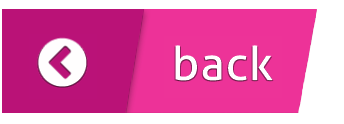
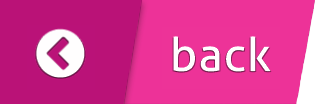
feat: Updated back button

diff --git a/client/src/main/resources/assets/css/landing/LoginModal.css b/client/src/main/resources/assets/css/landing/LoginModal.css
@@ -37,7 +37,7 @@
     -fx-border-color: rgba(255, 255, 255, 0.8);
     -fx-border-width: 2px;
     -fx-padding: 2px 6px;
-    -fx-min-width: 400px;
+    -fx-min-width: 475px;
 }
 
 .login-input:focused {
@@ -51,7 +51,7 @@
     -fx-text-fill: #FFFFFF;
     -fx-background-radius: 2px;
     -fx-cursor: hand;
-    -fx-padding: 4px 6px;
+    -fx-padding: 4px 7px;
     -fx-max-height: 40px;
     -fx-background-color: #109ec5;
     -fx-effect: dropshadow(gaussian, rgba(0, 0, 0, 0.3), 5, 0.0, 0, 2);

diff --git a/client/src/main/resources/assets/css/home/BottomBar.css b/client/src/main/resources/assets/css/home/BottomBar.css
@@ -1,7 +1,7 @@
 .bot-bar {
     -fx-background-color: rgba(0, 0, 0, 0.5);
     -fx-max-height: 100px;
-    -fx-padding: 10;
+    -fx-padding: 10 10 10 0;
 }
 
 .bot-bar .button {

diff --git a/client/src/main/java/beat/osu/beatosu/view/landing/component/LoginModal.java b/client/src/main/java/beat/osu/beatosu/view/landing/component/LoginModal.java
@@ -8,6 +8,7 @@ import beat.osu.beatosu.helper.ScreenManager;
 import beat.osu.beatosu.model.User;
 import javafx.animation.Animation;
 import javafx.animation.Interpolator;
+import javafx.animation.ScaleTransition;
 import javafx.animation.TranslateTransition;
 import javafx.geometry.Insets;
 import javafx.geometry.Pos;
@@ -18,6 +19,8 @@ import javafx.scene.control.Button;
 import javafx.scene.control.Label;
 import javafx.scene.control.PasswordField;
 import javafx.scene.control.TextField;
+import javafx.scene.image.Image;
+import javafx.scene.image.ImageView;
 import javafx.scene.layout.BorderPane;
 import javafx.scene.layout.Region;
 import javafx.scene.layout.StackPane;
@@ -109,9 +112,9 @@ public class LoginModal extends StackPane {
         createAccountButton.getStyleClass().addAll("login-button");
         createAccountButton.setMaxWidth(Double.MAX_VALUE);
 
-        backButton = new Button("〈 back");
-        backButton.getStyleClass().add("back-button");
+        backButton = createBackButton();
         StackPane.setAlignment(backButton, Pos.BOTTOM_LEFT);
+        StackPane.setMargin(backButton, new Insets(0, 0, 12, 0));
 
         formContainer.getChildren().addAll(
                 titleLabel,
@@ -190,7 +193,7 @@ public class LoginModal extends StackPane {
                     onLoginSuccessListener.accept(result.getUser());
                 }
                 hide();
-            }else {
+            } else {
                 System.out.println(result.getMessage());
             }
         });
@@ -255,5 +258,94 @@ public class LoginModal extends StackPane {
     public void clearFields() {
         userInput.clear();
         passInput.clear();
+    }
+
+    private Button createBackButton() {
+        Button button = new Button();
+        try {
+            String normalImagePath = "/assets/buttons/shared/global_back.png";
+            String hoveredImagePath = "/assets/buttons/shared/global_back_hovered.png";
+            
+            URL normalImageUrl = getClass().getResource(normalImagePath);
+            URL hoveredImageUrl = getClass().getResource(hoveredImagePath);
+            
+            if (normalImageUrl == null) {
+                System.err.println("Image not found: " + normalImagePath);
+                button.setText("〈 back");
+            } else {
+                Image normalImage = new Image(normalImageUrl.toExternalForm());
+                
+                ImageView normalImageView = new ImageView(normalImage);
+                normalImageView.setFitHeight(50);
+                normalImageView.setPreserveRatio(true);
+                
+                button.setGraphic(normalImageView);
+                button.getStyleClass().clear();
+                button.getStyleClass().add("back-button-image");
+                button.setStyle("-fx-padding: 0; -fx-border-width: 0; -fx-background-color: transparent; -fx-background-insets: 0; -fx-background-radius: 0; -fx-border-radius: 0; -fx-effect: null; -fx-focus-color: transparent; -fx-faint-focus-color: transparent;");
+
+                button.setMinSize(normalImageView.getFitWidth(), normalImageView.getFitHeight());
+                button.setMaxSize(normalImageView.getFitWidth(), normalImageView.getFitHeight());
+                button.setPrefSize(normalImageView.getFitWidth(), normalImageView.getFitHeight());
+                
+                if (hoveredImageUrl != null) {
+                    Image hoveredImage = new Image(hoveredImageUrl.toExternalForm());
+                    ImageView hoveredImageView = new ImageView(hoveredImage);
+                    hoveredImageView.setFitHeight(50);
+                    hoveredImageView.setPreserveRatio(true);
+                    
+                    hoveredImageView.setVisible(false);
+                    
+                    StackPane imageStack = new StackPane();
+                    imageStack.setAlignment(Pos.CENTER_LEFT);
+                    imageStack.getChildren().addAll(normalImageView, hoveredImageView);
+                    
+                    button.setGraphic(imageStack);
+                    
+                    double normalWidth = normalImageView.getBoundsInLocal().getWidth();
+                    double normalHeight = normalImageView.getBoundsInLocal().getHeight();
+                    double hoveredWidth = hoveredImageView.getBoundsInLocal().getWidth();
+                    double hoveredHeight = hoveredImageView.getBoundsInLocal().getHeight();
+                    
+                    double maxWidth = Math.max(normalWidth, hoveredWidth);
+                    double maxHeight = Math.max(normalHeight, hoveredHeight);
+                    
+                    button.setMinSize(maxWidth, maxHeight);
+                    button.setMaxSize(maxWidth, maxHeight);
+                    button.setPrefSize(maxWidth, maxHeight);
+                    
+                    ScaleTransition scaleUp = new ScaleTransition(Duration.millis(80), imageStack);
+                    scaleUp.setToX(1.05);
+                    scaleUp.setToY(1.05);
+                    scaleUp.setInterpolator(Interpolator.EASE_OUT);
+                    
+                    ScaleTransition scaleDown = new ScaleTransition(Duration.millis(100), imageStack);
+                    scaleDown.setToX(1.0);
+                    scaleDown.setToY(1.0);
+                    scaleDown.setInterpolator(Interpolator.EASE_OUT);
+                    
+                    button.setOnMouseEntered(e -> {
+                        scaleDown.stop();
+                        normalImageView.setVisible(false);
+                        hoveredImageView.setVisible(true);
+                        scaleUp.play();
+                    });
+                    
+                    button.setOnMouseExited(e -> {
+                        scaleUp.stop();
+                        normalImageView.setVisible(true);
+                        hoveredImageView.setVisible(false);
+                        scaleDown.play();
+                    });
+                } else {
+                    System.err.println("Hovered image not found: " + hoveredImagePath);
+                }
+            }
+        } catch (Exception e) {
+            System.err.println("Error loading back button images: " + e.getMessage());
+            button.setText("〈 back");
+            button.getStyleClass().add("back-button");
+        }
+        return button;
     }
 }

diff --git a/client/src/main/java/beat/osu/beatosu/view/home/component/BottomBar.java b/client/src/main/java/beat/osu/beatosu/view/home/component/BottomBar.java
@@ -2,6 +2,8 @@ package beat.osu.beatosu.view.home.component;
 
 import beat.osu.beatosu.Main;
 import beat.osu.beatosu.helper.CssManager;
+import javafx.animation.Interpolator;
+import javafx.animation.ScaleTransition;
 import javafx.geometry.Pos;
 import javafx.scene.control.Button;
 import javafx.scene.image.Image;
@@ -9,6 +11,8 @@ import javafx.scene.image.ImageView;
 import javafx.scene.layout.HBox;
 import javafx.scene.layout.Priority;
 import javafx.scene.layout.Region;
+import javafx.scene.layout.StackPane;
+import javafx.util.Duration;
 
 import java.net.URL;
 import java.util.Objects;
@@ -27,7 +31,7 @@ public class BottomBar extends HBox {
     }
 
     private void initializeComponents() {
-        backBtn = new Button(" < back");
+        backBtn = createBackButton();
 
         spacer = new Region();
         HBox.setHgrow(spacer, Priority.ALWAYS);
@@ -64,5 +68,96 @@ public class BottomBar extends HBox {
 
     public ImageView getLogoView() {
         return logoView;
+    }
+
+    private Button createBackButton() {
+        Button button = new Button();
+        try {
+            String normalImagePath = "/assets/buttons/shared/global_back.png";
+            String hoveredImagePath = "/assets/buttons/shared/global_back_hovered.png";
+
+            URL normalImageUrl = getClass().getResource(normalImagePath);
+            URL hoveredImageUrl = getClass().getResource(hoveredImagePath);
+
+            if (normalImageUrl == null) {
+                System.err.println("Image not found: " + normalImagePath);
+                button.setText("〈 back");
+            } else {
+                Image normalImage = new Image(normalImageUrl.toExternalForm());
+
+                ImageView normalImageView = new ImageView(normalImage);
+                normalImageView.setFitHeight(50);
+                normalImageView.setPreserveRatio(true);
+
+                button.setGraphic(normalImageView);
+                button.getStyleClass().clear();
+                button.getStyleClass().add("back-button-image");
+                button.setStyle("-fx-padding: 0; -fx-border-width: 0; -fx-background-color: transparent; -fx-background-insets: 0; -fx-background-radius: 0; -fx-border-radius: 0; -fx-effect: null; -fx-focus-color: transparent; -fx-faint-focus-color: transparent;");
+
+                button.setMinSize(normalImageView.getFitWidth(), normalImageView.getFitHeight());
+                button.setMaxSize(normalImageView.getFitWidth(), normalImageView.getFitHeight());
+                button.setPrefSize(normalImageView.getFitWidth(), normalImageView.getFitHeight());
+
+                if (hoveredImageUrl != null) {
+                    Image hoveredImage = new Image(hoveredImageUrl.toExternalForm());
+                    ImageView hoveredImageView = new ImageView(hoveredImage);
+                    hoveredImageView.setFitHeight(50);
+                    hoveredImageView.setPreserveRatio(true);
+
+                    hoveredImageView.setVisible(false);
+
+                    StackPane imageStack = new StackPane();
+                    imageStack.setAlignment(Pos.CENTER_LEFT);
+                    imageStack.getChildren().addAll(normalImageView, hoveredImageView);
+
+                    button.setGraphic(imageStack);
+
+                    // Use the larger dimensions to accommodate both images
+                    double normalWidth = normalImageView.getBoundsInLocal().getWidth();
+                    double normalHeight = normalImageView.getBoundsInLocal().getHeight();
+                    double hoveredWidth = hoveredImageView.getBoundsInLocal().getWidth();
+                    double hoveredHeight = hoveredImageView.getBoundsInLocal().getHeight();
+
+                    double maxWidth = Math.max(normalWidth, hoveredWidth);
+                    double maxHeight = Math.max(normalHeight, hoveredHeight);
+
+                    button.setMinSize(maxWidth, maxHeight);
+                    button.setMaxSize(maxWidth, maxHeight);
+                    button.setPrefSize(maxWidth, maxHeight);
+
+                    // Create scale transitions for smooth hover effect
+                    ScaleTransition scaleUp = new ScaleTransition(Duration.millis(80), imageStack);
+                    scaleUp.setToX(1.05);
+                    scaleUp.setToY(1.05);
+                    scaleUp.setInterpolator(Interpolator.EASE_OUT);
+
+                    ScaleTransition scaleDown = new ScaleTransition(Duration.millis(100), imageStack);
+                    scaleDown.setToX(1.0);
+                    scaleDown.setToY(1.0);
+                    scaleDown.setInterpolator(Interpolator.EASE_OUT);
+
+                    button.setOnMouseEntered(e -> {
+                        scaleDown.stop();
+                        normalImageView.setVisible(false);
+                        hoveredImageView.setVisible(true);
+                        scaleUp.play();
+                    });
+
+                    button.setOnMouseExited(e -> {
+                        scaleUp.stop();
+                        normalImageView.setVisible(true);
+                        hoveredImageView.setVisible(false);
+                        scaleDown.play();
+                    });
+                } else {
+                    System.err.println("Hovered image not found: " + hoveredImagePath);
+                }
+            }
+        } catch (Exception e) {
+            System.err.println("Error loading back button images: " + e.getMessage());
+            button.setText("〈 back");
+            button.getStyleClass().add("back-button");
+        }
+        return button;
     }
 }
